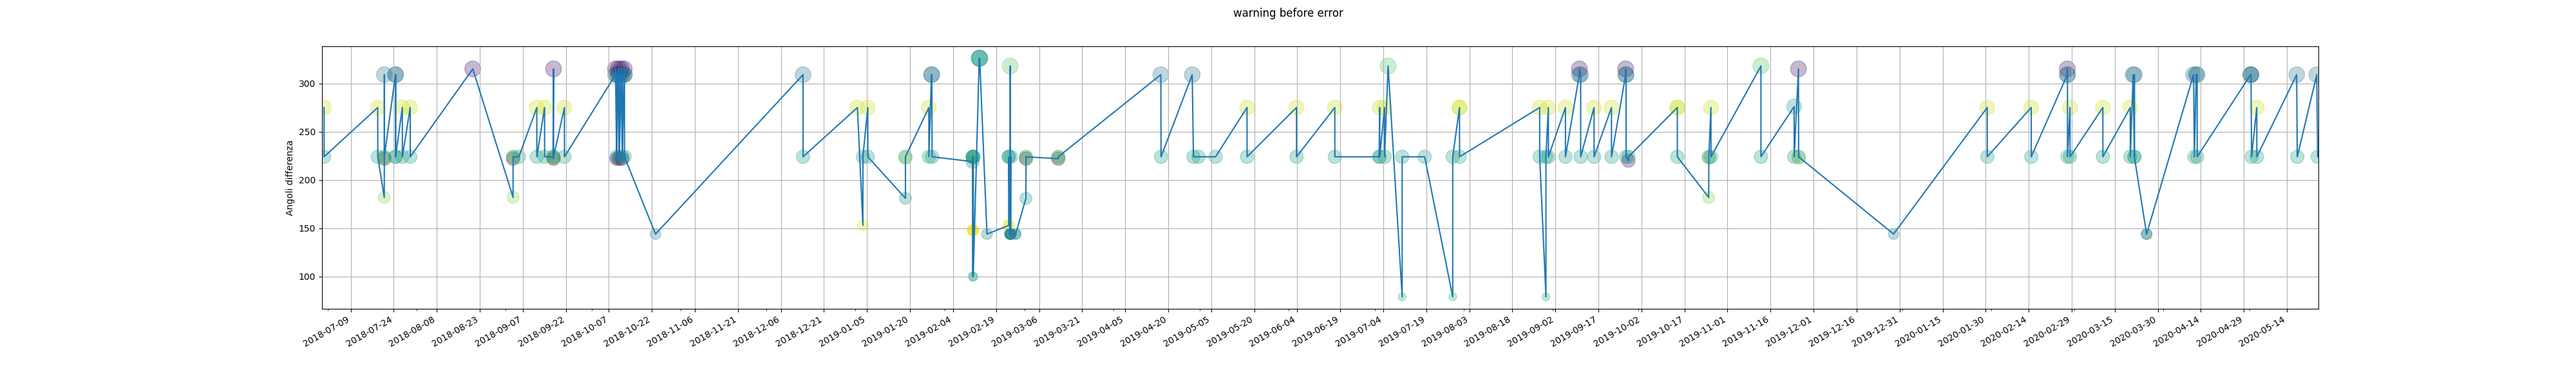
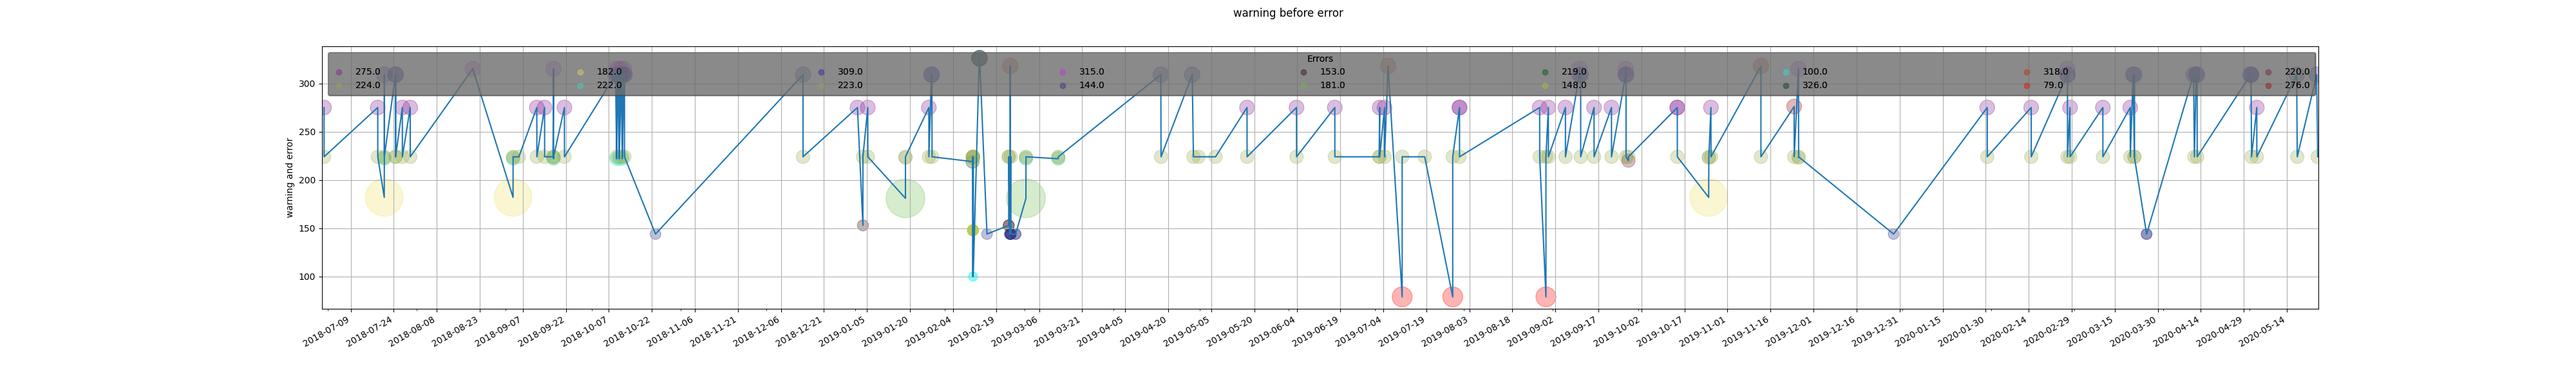
ok

diff --git a/ScriptStatisticWindTurbine/ChartMaintenance.py b/ScriptStatisticWindTurbine/ChartMaintenance.py
@@ -1,4 +1,5 @@
 import random
+from typing import List
 
 from matplotlib import colors
 from matplotlib.colors import LinearSegmentedColormap
@@ -42,10 +43,10 @@ def get_int_from_rgb(rgb):
 
 color_error = [(255 / 255, 6 / 255, 6 / 255), (122 / 255, 39 / 255, 55 / 255), (158 / 255, 19 / 255, 19 / 255),
                (127 / 255, 17 / 255, 17 / 255), (247 / 255, 52 / 255, 52 / 255)]
-dimension_error = [110, 100, 120, 130, 140]
+dimension_error = [1400, 1000, 1500, 1600, 1700]
 color_warning = [(255 / 255, 255 / 255, 0 / 255), (255 / 255, 255 / 255, 112 / 255), (152 / 255, 152 / 255, 8 / 255),
                  (111 / 255, 111 / 255, 9 / 255), (169 / 255, 131 / 255, 6 / 255)]
-dimension_warning = [90, 80, 70, 60, 50]
+dimension_warning = [800, 700, 600, 500, 400]
 errors = load_color_errors()
 warnings = load_color_warnings()
 aux_errors = Util_Plt.errors
@@ -86,7 +87,7 @@ def general_plot_custom_date(dates, value, days_period, name_turbine):
     # Major ticks every 6 months.
     fmt_half_year = mdates.HourLocator(interval=8)
 
-    create_chart(ax, fmt_half_year, date, fig, name_turbine, "angle_difference")
+    create_chart(ax, fmt_half_year, date, fig, name_turbine, "angle_difference", 'Angoli differenza')
 
 
 def chart_maintenance_period_by_turbine_with_angle(days_period: int):
@@ -139,7 +140,7 @@ def filter_dimension_warning(value: float):
     return list(filter(lambda value_warning: value_warning.warning == value, warnings))[0].dimension
 
 
-def create_color(my_unique_values):
+def create_color(my_unique_values) -> list:
     @tail_recursive
     def _create_color_(unique_values, my_colors: list = None):
         if len(unique_values) > 0:
@@ -155,68 +156,92 @@ def create_color(my_unique_values):
     return _create_color_(my_unique_values, [])
 
 
-def change_string(label: str, final_list_error: np.array):
+def change_string(label: str, error: float, index: (float, float, float)):
     search = int(label[label.find('{') + 1:len(label) - 2])
-    label_f = label[:label.find('{') + 1] + str(final_list_error[search]) + "}$"
+    label_f = label[:label.find('{') + 1] + str(error) + "}$"
     return label_f
 
 
-def change_strings(labels: list, final_list_error: np.array):
-    return [change_string(label, final_list_error) for label in labels]
+def change_strings(labels: list, final_list_error: np.array, total_color: List[tuple]):
+    return [change_string(label, error, []) for label, error in zip(labels, final_list_error)]
+
+
+def condition_without_error_and_warning(value_warning, my_unique_values: list):
+    return True if value_warning not in my_unique_values and value_warning not in aux_errors \
+                   and value_warning not in aux_warning else False
+
+
+def condition_with_error_and_warning(value_warning, my_unique_values: list):
+    return False if value_warning in my_unique_values else True
+
+
+def get_unique_values(values_warning: np.array, condition) -> list:
+    my_unique_values = []
+    for value_warning in values_warning:
+        if condition(value_warning,my_unique_values):
+            my_unique_values.append(value_warning)
+    return my_unique_values
+
+
+def get_final_element_color_and_size(my_unique_values: list, values_warning: np.array, colors_custom: list,
+                                     sizes: list) -> list:
+    final_element_with_color_and_size = []
+    for val in values_warning:
+        if val in my_unique_values:
+            size = sizes[my_unique_values.index(val)]
+            final_element_with_color_and_size.append(
+                (colors_custom[my_unique_values.index(val)], size if size < 300 else 300))
+        else:
+            final_element_with_color_and_size.append(
+                (filter_color(val), filter_dimension(val)))
+    return final_element_with_color_and_size
 
 
 def plot_warning(final, id_turbine, name_turbine):
     date = np.array([pd.to_datetime(date[4]) for date in final if is_int_or_float(date[3])])
     fig, ax = plt.subplots(figsize=(40, 6))
 
-    value_warning = np.array([float(date[3]) for date in final if is_int_or_float(date[3])])
-    my_unique_values = list(
-        filter(lambda value: value not in aux_errors and value not in aux_warning, set(value_warning)))
+    values_warning = np.array([float(date[3]) for date in final if is_int_or_float(date[3])])
+    my_unique_values = get_unique_values(values_warning,condition_without_error_and_warning)
     colors_custom = create_color(my_unique_values)
-    final_element_with_color_and_size = []
     sizes = my_unique_values  # mod size by error, more great the error more great the dimension
-    for val in value_warning:
-        if val in my_unique_values:
-            final_element_with_color_and_size.append(
-                (colors_custom[my_unique_values.index(val)], sizes[my_unique_values.index(val)]))
-        else:
-            final_element_with_color_and_size.append(
-                (filter_color(val), filter_dimension(val)))
+    final_element_with_color_and_size = get_final_element_color_and_size(my_unique_values, values_warning,
+                                                                         colors_custom, sizes)
+
     final_colors = list(map(lambda color: color[0], final_element_with_color_and_size))
 
     c_map_name = 'custom_color_map'
-    c_map = LinearSegmentedColormap.from_list(c_map_name, colors_custom + color_error + color_warning)
-    for x in final_colors:
-        if x in colors_custom:
-            print(colors_custom.index(x), value_warning[colors_custom.index(x)])
-        else:
-            if x in color_error:#error con el indice para capturar el valor delcolor
-                print(len(colors_custom)-1 + color_error.index(x),
-                      value_warning[len(colors_custom) - 1 + color_error.index(x)],
-                      value_warning[len(colors_custom) - 1 + color_error.index(x)] in aux_errors)
-            else:
-                print(len(colors_custom)-1 + len(color_error)-1 + color_warning.index(x),
-                      value_warning[len(colors_custom) - 1 + len(color_error) - 1 + color_warning.index(x)],
-                      value_warning[
-                          len(colors_custom) - 1 + len(color_error) - 1 + color_warning.index(x)] in aux_warning)
+    total_color = colors_custom + color_error + color_warning
+    final_list_color_unique = []
+    for color_l in final_colors:
+        if color_l not in final_list_color_unique:
+            final_list_color_unique.append(color_l)
+    color_index = np.array([final_list_color_unique.index(color) for color in final_colors])#controlar indices, porque no estan bien
+    my_unique_colors = []
+    for value_color in color_index:
+        if value_color not in my_unique_colors:
+            my_unique_colors.append(value_color)
 
-    color_index = np.array([colors_custom.index(x) if x in colors_custom else (
-        len(colors_custom)-1 + color_error.index(x) if x in color_error
-        else len(colors_custom)-1 + len(color_error)-1 + color_warning.index(x))
-                            for x in final_colors])
-    scatter = ax.scatter(date, value_warning, c=color_index,
-                         s=list(map(lambda size: size[1], final_element_with_color_and_size)), alpha=0.3, cmap=c_map)
-    handles, labels = scatter.legend_elements(prop="colors", alpha=0.6)
-    labels = change_strings(labels, value_warning)
-    legend1 = ax.legend(handles, labels, loc="upper right", title="Errors")
+    c_map = LinearSegmentedColormap.from_list(c_map_name, [total_color[index] for index in
+                                                           my_unique_colors])  # set new arrya with new index by color
+    scatter = ax.scatter(date, values_warning, c=color_index,
+                         s=list(map(lambda size: size[1], final_element_with_color_and_size)), alpha=0.3, cmap=c_map,
+                         label=len(my_unique_colors))
+
+    handles, labels = scatter.legend_elements(num=len(my_unique_colors), prop="colors", alpha=0.3)
+
+    labels = change_strings(labels, get_unique_values(values_warning,condition_with_error_and_warning), values_warning)
+    n_col = int(len(my_unique_colors)/2)
+    legend1 = ax.legend(handles, labels,loc='upper center', ncol=n_col, mode="expand", shadow=True, fancybox=True, title="Errors")
+    legend1.get_frame().set_alpha(0.1)
     ax.add_artist(legend1)
-    ax.plot(date, value_warning)
+    ax.plot(date, values_warning)
     fmt_half_year = mdates.DayLocator(interval=15)
-    create_chart(ax, fmt_half_year, date, fig, name_turbine, "maintenance_period")
-    print(value_warning)
+    create_chart(ax, fmt_half_year, date, fig, name_turbine, "maintenance_period", "warning and error")
+    print(values_warning)
 
 
-def create_chart(ax, fmt_half_year, date, fig, name_turbine, directory):
+def create_chart(ax, fmt_half_year, date, fig, name_turbine, directory, y_label):
     ax.xaxis.set_major_locator(fmt_half_year)
 
     # Minor ticks every month.
@@ -239,7 +264,7 @@ def create_chart(ax, fmt_half_year, date, fig, name_turbine, directory):
 
     # Rotates and right aligns the x labels, and moves the bottom of the
     # axes up to make room for them.
-    ax.set_ylabel('Angoli differenza')
+    ax.set_ylabel(y_label)
     fig.suptitle(f'warning before error')
     fig.autofmt_xdate()
     plt.savefig(f"images/{directory}/turbine-{name_turbine}-period{date_min}-{date_max}")

diff --git a/ScriptStatisticWindTurbine/ScriptStatisticWindTurbine.py b/ScriptStatisticWindTurbine/ScriptStatisticWindTurbine.py
@@ -1,9 +1,37 @@
+from matplotlib.colors import LinearSegmentedColormap
+
 import CorrelationPlt as Cr
 import HistogramTurbine as Hs
 import TypeDistribution as Tp
 import AutoCorrelation as Ac
 import ChartMaintenance as Ch
+import numpy
+import matplotlib.pyplot as plt
 if __name__ == '__main__':
+    # assign data points
+    a = numpy.array([[1, 2, 3, 4, 5, 6, 7, 8, 9],
+                     [9, 8, 7, 6, 5, 4, 3, 2, 1]])
+
+    # assign categories
+    categories = numpy.array([0, 1, 1, 0, 0, 1, 1, 0, 1])
+
+    # assign colors using color codes
+    color1 = (0.69411766529083252, 0.3490196168422699,
+              0.15686275064945221 )
+    color2 = (0.65098041296005249, 0.80784314870834351,
+              0.89019608497619629 )
+
+    # asssign colormap
+    colormap = numpy.array([color1, color2])
+    c_map = LinearSegmentedColormap.from_list("ss", colormap)
+    # depict illustration
+    scatter = plt.scatter(a[0], a[1], s=500, c=categories,cmap=c_map )
+    handles, labels = scatter.legend_elements( prop="colors", alpha=0.3)
+
+    plt.show()
+
+
+
     Ch.chart_maintenance_period_by_turbine_with_warning()
     Ch.chart_maintenance_period_by_turbine_with_angle(10)
     Ac.calculus_auto_correlation_warning_series_before_error(4, 10)
